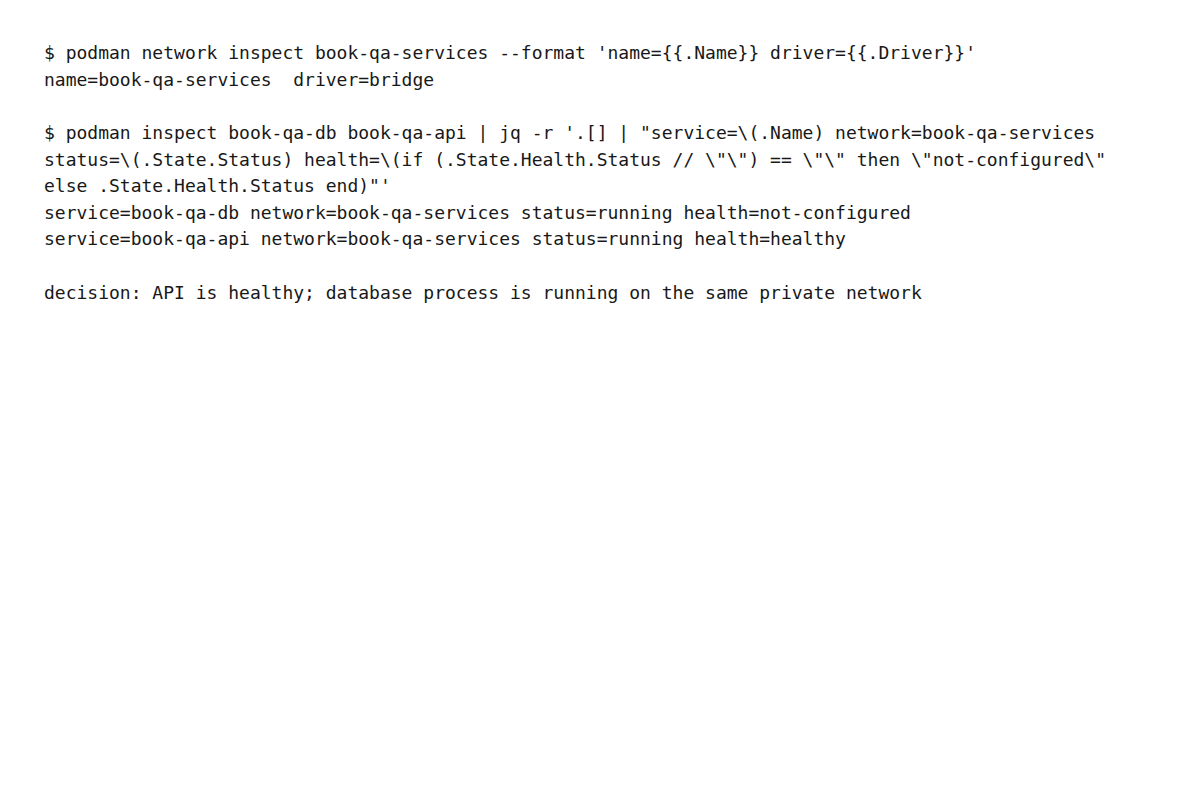
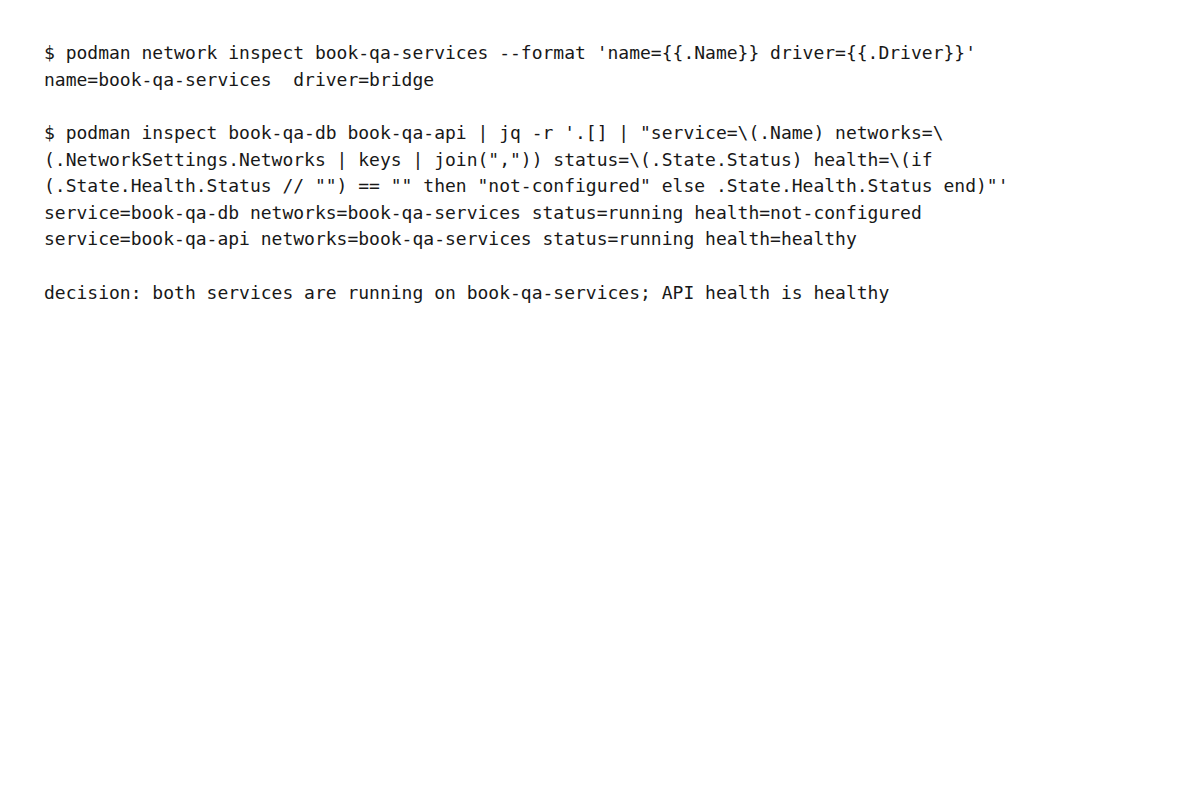
test: bound PNG decoding and verify networks

Changed region(s): [[0.0308, 0.1562, 0.925, 0.3125], [0.1233, 0.3438, 0.7708, 0.375]]

diff --git a/scripts/check-screenshot-contract.js b/scripts/check-screenshot-contract.js
@@ -7,6 +7,7 @@ const zlib = require('zlib');
 
 const EXPECTED_CHAPTERS = Array.from({ length: 15 }, (_, index) => `chapter${String(index + 1).padStart(2, '0')}`);
 const MAX_BYTES = 500 * 1024;
+const MAX_DECODED_BYTES = 32 * 1024 * 1024;
 const MIN_WIDTH = 1200;
 const MIN_HEIGHT = 400;
 const FORBIDDEN = [
@@ -104,14 +105,18 @@ function decodePng(buffer) {
   if (!color || !color.depths.includes(header.bitDepth) || (header.colorType === 3 && !sawPalette)) {
     return { error: 'invalid color type, bit depth, or palette' };
   }
+  const bitsPerRow = BigInt(header.width) * BigInt(color.channels) * BigInt(header.bitDepth);
+  const rowBytesBig = (bitsPerRow + 7n) / 8n;
+  const expectedBytesBig = BigInt(header.height) * (rowBytesBig + 1n);
+  if (expectedBytesBig > BigInt(MAX_DECODED_BYTES)) return { error: 'decoded image exceeds the safety limit' };
+  const rowBytes = Number(rowBytesBig);
+  const expectedBytes = Number(expectedBytesBig);
   let pixels;
   try {
-    pixels = zlib.inflateSync(Buffer.concat(imageData));
+    pixels = zlib.inflateSync(Buffer.concat(imageData), { maxOutputLength: expectedBytes });
   } catch (error) {
     return { error: `IDAT cannot be inflated: ${error.message}` };
   }
-  const rowBytes = Math.ceil((header.width * color.channels * header.bitDepth) / 8);
-  const expectedBytes = header.height * (rowBytes + 1);
   if (pixels.length !== expectedBytes) return { error: 'inflated scanline length is invalid' };
   for (let row = 0; row < header.height; row += 1) {
     if (pixels[row * (rowBytes + 1)] > 4) return { error: 'scanline filter type is invalid' };
@@ -218,6 +223,10 @@ function validateScreenshotContract(repoRoot = path.resolve(__dirname, '..')) {
       errors.push(`${label}: image is missing: ${entry.file}`);
       continue;
     }
+    if (buffer.length >= MAX_BYTES) {
+      errors.push(`${label}: image is ${buffer.length} bytes; must be below ${MAX_BYTES}`);
+      continue;
+    }
     const dimensions = decodePng(buffer);
     if (dimensions.error) {
       errors.push(`${label}: image is not a valid PNG with complete decodable payload (${dimensions.error})`);
@@ -226,7 +235,6 @@ function validateScreenshotContract(repoRoot = path.resolve(__dirname, '..')) {
     if (dimensions.width < MIN_WIDTH || dimensions.height < MIN_HEIGHT) {
       errors.push(`${label}: image dimensions ${dimensions.width}x${dimensions.height} are below ${MIN_WIDTH}x${MIN_HEIGHT}`);
     }
-    if (buffer.length >= MAX_BYTES) errors.push(`${label}: image is ${buffer.length} bytes; must be below ${MAX_BYTES}`);
     if (entry.width !== dimensions.width || entry.height !== dimensions.height || entry.bytes !== buffer.length) {
       errors.push(`${label}: manifest dimensions/bytes do not match the PNG`);
     }
@@ -295,4 +303,4 @@ if (require.main === module) {
   console.log(`Screenshot contract passed: ${EXPECTED_CHAPTERS.length} chapters, unique PNG/hash/reference, sanitized provenance.`);
 }
 
-module.exports = { validateScreenshotContract };
+module.exports = { crc32, validateScreenshotContract };

diff --git a/scripts/check-screenshot-contract-regression.js b/scripts/check-screenshot-contract-regression.js
@@ -3,7 +3,7 @@
 const crypto = require('crypto');
 const fs = require('fs');
 const path = require('path');
-const { validateScreenshotContract } = require('./check-screenshot-contract');
+const { crc32, validateScreenshotContract } = require('./check-screenshot-contract');
 
 const repoRoot = path.resolve(__dirname, '..');
 const cacheRoot = path.join(repoRoot, 'node_modules', '.cache');
@@ -201,6 +201,29 @@ try {
       const manifest = readManifest();
       manifest.entries[0].bytes = truncated.length;
       manifest.entries[0].sha256 = crypto.createHash('sha256').update(truncated).digest('hex');
+      writeManifest(manifest);
+    },
+    () => {
+      fs.writeFileSync(imageFile, baselineImage);
+      fs.writeFileSync(path.join(fixtureRoot, 'docs/assets/images/screenshots/manifest.json'), baselineManifest);
+    },
+  );
+  passed += 1;
+
+  expectFailure(
+    'oversized decoded PNG with synchronized metadata',
+    'decoded image exceeds the safety limit',
+    () => {
+      const oversized = Buffer.from(baselineImage);
+      oversized.writeUInt32BE(100000, 16);
+      oversized.writeUInt32BE(100000, 20);
+      oversized.writeUInt32BE(crc32(oversized.subarray(12, 29)), 29);
+      fs.writeFileSync(imageFile, oversized);
+      const manifest = readManifest();
+      manifest.entries[0].width = 100000;
+      manifest.entries[0].height = 100000;
+      manifest.entries[0].bytes = oversized.length;
+      manifest.entries[0].sha256 = crypto.createHash('sha256').update(oversized).digest('hex');
       writeManifest(manifest);
     },
     () => {
